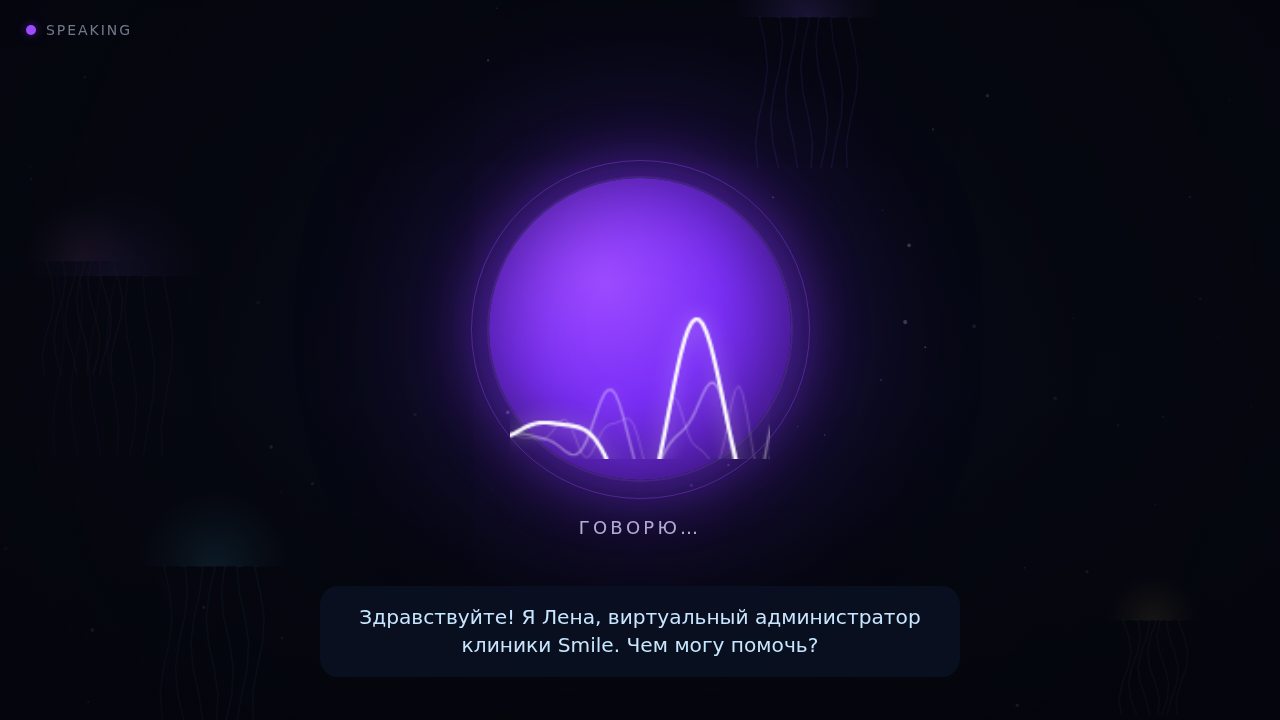
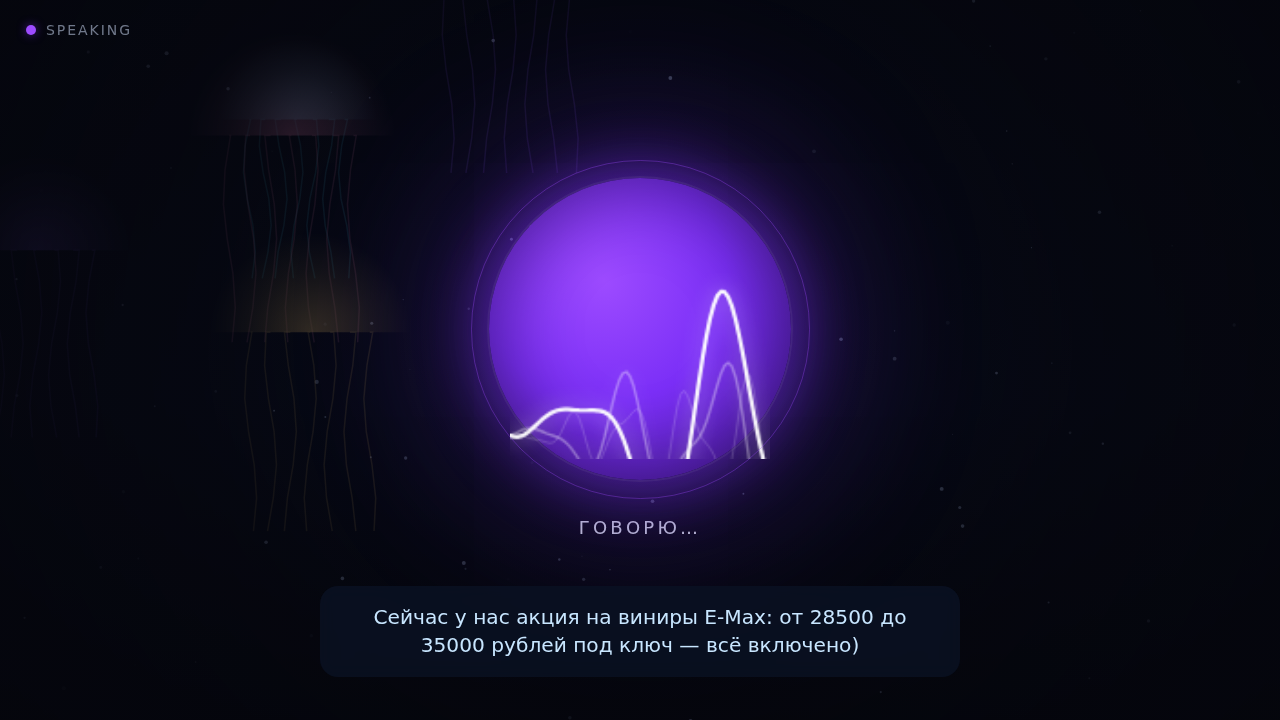
feat: персона ассистента «Стоматология №1» (СПб) — промпт и данные клиники
- config/prompts.yaml: новый system-промпт по ТЗ заказчика — персона
  Анастасия, продающий стиль, обязательный вопрос в конце, улыбка ')',
  запрет шаблонных начал фраз, переговоры по Чалдини/Кеннеди
- полный прайс под ключ (протезы, коронки, виниры E-Max акция 28500–35000,
  коронка на имплант 36000 акция, чистка, каналы, вкладка, композитный винир)
- правила: бесплатная консультация, не подтверждать время (перезвонит
  администратор), не лечим детей, удаление → партнёр-хирург 89214445070
- config/settings.yaml: клиника «Стоматология №1», адрес СПб (Ивана Фомина
  14 к1), телефоны, часы работы 12–21 ежедневно
- src/web/server.py: демо-диалог приведён к новой персоне (виниры-акция,
  бесплатная консультация, согласование времени администратором)

Примечание: в ТЗ имя указано и как «Оливия», и как «Анастасия» (в уже
отправленном первом сообщении) — взял «Анастасию», чтобы не противоречить
тому, что клиент уже увидел; легко поменять в prompts.yaml.

diff --git a/src/web/server.py b/src/web/server.py
@@ -122,38 +122,33 @@ class KioskScenario:
         logger.info("👤 СИМУЛЯЦИЯ КАМЕРЫ: лицо обнаружено → запуск диалога")
 
         await self.mode("greeting")
-        await self.say("Здравствуйте! Я Лена, виртуальный администратор клиники "
-                       "Smile. Чем могу помочь?")
+        await self.say("Здравствуйте!) Меня зовут Анастасия, администратор клиники "
+                       "«Стоматология №1». Подскажите, какая у вас проблема?")
 
-        await self.user("Здравствуйте! У меня кариес, хочу записаться на лечение.")
+        await self.user("Хочу поставить виниры, сколько это стоит?")
         await self.think()
-        services = await self.dikidi.get_services(limit=20)
-        caries = next((s for s in services if "кариес" in s["name"].lower()), None)
-        price = caries["price"] if caries else 4500
-        await self.say(f"Конечно. Лечение кариеса у нас от {price} рублей, "
-                       "занимает около часа. Давайте подберём удобное время.")
+        # цены — из персоны (промпта), сейчас действует акция на E-Max
+        await self.say("Сейчас у нас акция на виниры E-Max: от 28500 до 35000 рублей "
+                       "под ключ — входят все манипуляции, сканирование и работа врача. "
+                       "Точную стоимость врач назовёт на бесплатной консультации. "
+                       "Подобрать вам удобный день?")
 
-        await self.user("Давайте на этой неделе, ближе к вечеру.")
+        await self.user("Да, давайте на этой неделе вечером.")
         await self.think()
+        # окна смотрим в DIKIDI, но время НЕ подтверждаем — согласует администратор
         slots = await self.dikidi.get_available_slots("терапевт", limit=3)
         if slots:
-            human = "; ".join(s["human"] for s in slots[:3])
-            await self.say(f"Есть свободные окна: {human}. Какое вам удобно?")
+            human = "; ".join(s["human"] for s in slots[:2])
+            await self.say(f"Есть варианты: {human}. Как вас зовут и на какой номер "
+                           "администратору перезвонить, чтобы согласовать время?")
         else:
-            await self.say("Сейчас уточню расписание у терапевта…")
+            await self.say("Подберём удобное время. Как вас зовут и на какой номер "
+                           "перезвонить, чтобы согласовать запись?")
 
-        await self.user("Давайте первое.")
+        await self.user("Мария, [phone redacted].")
         await self.think(0.9)
-        booked = None
-        if slots:
-            booked = await self.dikidi.create_booking(
-                slots[0]["slot_id"], "caries_simple",
-                client_name="Гость", client_phone="[phone redacted]")
-        if booked and booked.get("ok"):
-            await self.say(f"Готово! Записала вас на {booked['human']}. "
-                           "Подойдите, пожалуйста, за 10 минут до приёма. До встречи!")
-        else:
-            await self.say("Записала вас. Подойдите за 10 минут до приёма. До встречи!")
+        await self.say("Записала, Мария) Администратор перезвонит и согласует точное "
+                       "время консультации. Остались ещё вопросы?")
 
         await asyncio.sleep(0.8)
         logger.info("👋 СИМУЛЯЦИЯ КАМЕРЫ: пациент ушёл → возврат в режим ожидания")